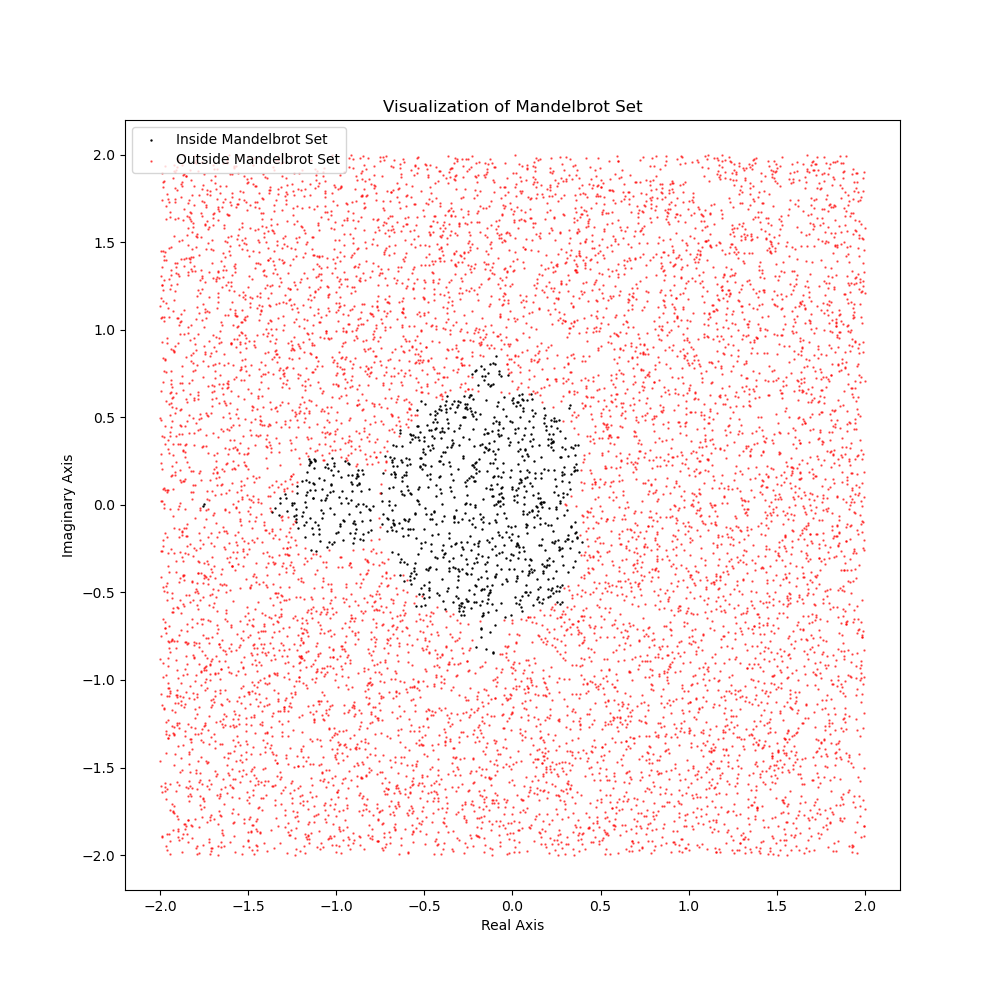
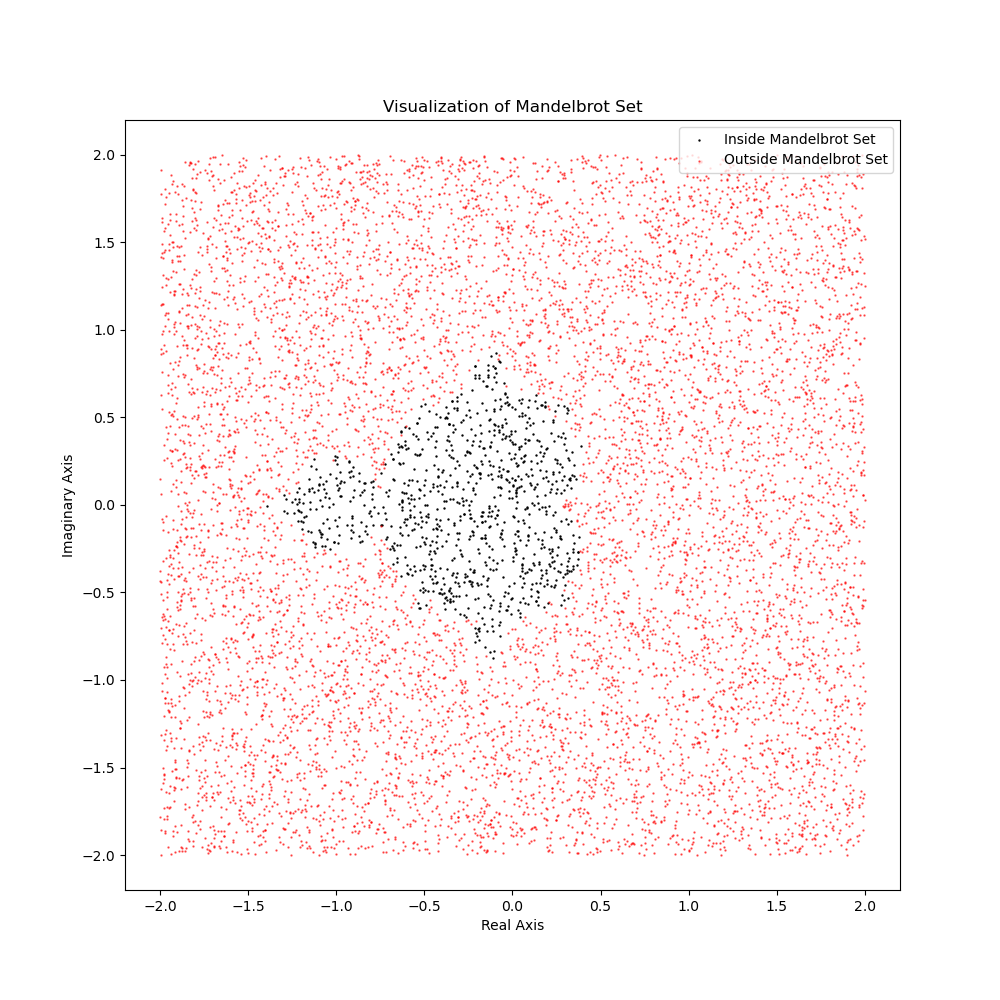
Add ortho_sampling method, readme and some compilation

Changed region(s): [[0.155, 0.124, 0.899, 0.868]]

diff --git a/src/mandelbrot_analysis.py b/src/mandelbrot_analysis.py
@@ -1,13 +1,52 @@
+import os
+import sys
+import ctypes
+
 import numpy as np
 import matplotlib.pyplot as plt
 from scipy.stats import qmc
-import os
+
 #import cupy as cp  # For GPU acceleration
 
 class MandelbrotAnalysis:
     def __init__(self, real_range, imag_range):
         self.real_range = real_range
         self.imag_range = imag_range
+        self.lib = None
+
+    def _load_library(self):
+        # combine the path of the shared library
+        lib_path = os.path.join(os.path.dirname(__file__))
+        lib_path = os.path.join(lib_path, "..", "ortho-pack", "lib")
+        
+        if sys.platform.startswith("win"):
+            print("Windows platform detected.")
+            lib_file = "ortho_sampling_generate.dll"
+        elif sys.platform.startswith("linux"):
+            print("Linux platform detected.")
+            lib_file = "libortho_sampling_generate.so"
+        elif sys.platform.startswith("darwin"):
+            print("MacOS platform detected, wait, what? I have no MacOS.")
+            lib_file = "libortho_sampling_generate.dylib" # not implemented, I have no MacOS
+        else:
+            raise OSError("Unsupported operating system.")
+
+        lib_full_path = os.path.join(lib_path, lib_file)
+
+        # load the shared library
+        try:
+            self.lib = ctypes.CDLL(lib_full_path)
+        except OSError as e:
+            raise RuntimeError(f"Unable to load the shared library: {e}")
+
+        # define the function signature
+        self.lib.ortho_sampling_generate.argtypes = [
+            ctypes.c_int,  # major
+            ctypes.c_int,  # runs
+            np.ctypeslib.ndpointer(dtype=np.float64, ndim=1, flags='C_CONTIGUOUS'),  # points_real
+            np.ctypeslib.ndpointer(dtype=np.float64, ndim=1, flags='C_CONTIGUOUS')   # points_imag
+        ]
+        self.lib.ortho_sampling_generate.restype = None
 
     def get_sample_name(self, sample_type):
         sample_name_list = {
@@ -52,8 +91,22 @@ class MandelbrotAnalysis:
         samples = np.column_stack((x_samples, y_samples))
         return samples
 
-    def orthogonal_sampling(self, num_samples):
-        return
+    def orthogonal_sampling(self, num_samples_root):
+        major = num_samples_root  # major is the number of samples in each dimension
+        num_samples = major * major  # total number of samples
+        runs = 1 # number of runs
+
+        # store the generated points in these arrays
+        points_real = np.zeros(num_samples, dtype=np.float64)
+        points_imag = np.zeros(num_samples, dtype=np.float64)
+
+        # call the shared library function to generate the points
+        self.lib.ortho_sampling_generate(major, runs, points_real, points_imag)
+
+        # combine the real and imaginary parts to get the samples
+        samples = np.column_stack((points_real, points_imag))
+
+        return samples
 
     # Mandelbrot convergence check for real + imag*(1j) with max_iter
     def mandel_convergence_check(self, real, imag, max_iter):

diff --git a/src/main.py b/src/main.py
@@ -8,11 +8,12 @@ mandelbrotAnalysisPlatform = mandelbrot_analysis.MandelbrotAnalysis(real_range=(
 
 # -----------------------------------------------------------color_mandelbrot-----------------------------------------------------------
 # pick the best combination of num_samples and max_iter
-num_samples_list = [1000, 5000, 10000]
+num_samples_list              = [2500, 6400, 10000] # 50, 80, 100
+num_samples_list_perfect_root = [50, 80, 100] # perfect square root for orthogonal sampling, sample size is square of this number!!!
 max_iter_list = [100, 200]
 mset_list = list(itertools.product(num_samples_list, max_iter_list))
 
-def run_mset_colors(num_samples, max_iter):
+def run_mset_colors_parallel(num_samples, max_iter):
     # 0 is for pure random sampling
     # TODO: Implement pure random sampling
 
@@ -20,10 +21,18 @@ def run_mset_colors(num_samples, max_iter):
     sample = mandelbrotAnalysisPlatform.latin_hypercube_sampling(num_samples)
     mandelbrotAnalysisPlatform.color_mandelbrot(sample, max_iter, 1)
 
-    # 2 is for orthogonal sampling
-    # TODO: Implement orthogonal sampling
+def run_mset_colors_ortho_seq(num_samples_list_perfect_root, max_iter_list):
+    # 2 corresponds to orthogonal sampling
+    # joblib is not able to seriliaze the object which has ctypes pointer, so we have to run this sequentially
+    for i, num_samples in enumerate(num_samples_list_perfect_root):
+        for j, max_iter in enumerate(max_iter_list):
+            sample = mandelbrotAnalysisPlatform.orthogonal_sampling(num_samples)
+            mandelbrotAnalysisPlatform.color_mandelbrot(sample, max_iter, 2)
 
 num_workers = mp.cpu_count()
-results = Parallel(n_jobs=num_workers)(delayed(run_mset_colors)(num_samples, max_iter) for num_samples, max_iter in mset_list)
+results = Parallel(n_jobs=num_workers)(delayed(run_mset_colors_parallel)(num_samples, max_iter) for num_samples, max_iter in mset_list)
+
+mandelbrotAnalysisPlatform._load_library()
+run_mset_colors_ortho_seq(num_samples_list_perfect_root, max_iter_list)
 
 # -----------------------------------------------------------inverstigate convergence-----------------------------------------------------------

diff --git a/ortho-pack/ortho_sampling_generate.c b/ortho-pack/ortho_sampling_generate.c
@@ -1,0 +1,69 @@
+#include <stdio.h>
+#include <stdlib.h>
+#include <math.h>
+#ifdef _WIN32
+    #include <windows.h>
+#else
+    #include <unistd.h>
+#endif
+#include "mt19937.h"
+#include "rand_support.h"
+#include "ortho_sampling_generate.h"
+
+#define SAMPLES(major) ((major) * (major))
+
+void ortho_sampling_generate(int major, int runs, double *points_real, double *points_imag)
+{
+    int i, j, k, m;
+    long double scale = 4.0 / ((long double) SAMPLES(major));
+    double x, y;
+
+    long **xlist = malloc(major * sizeof(long *));
+    long **ylist = malloc(major * sizeof(long *));
+    for (i = 0; i < major; i++) {
+        xlist[i] = malloc(major * sizeof(long));
+        ylist[i] = malloc(major * sizeof(long));
+    }
+
+    init_genrand(3737);
+    m = 0;
+
+    // init xlist and ylist
+    for (i = 0; i < major; i++) {
+        for (j = 0; j < major; j++) {
+            xlist[i][j] = ylist[i][j] = m++;
+        }
+    }
+
+    int point_index = 0;
+
+    // repeat RUNS times
+    for (k = 0; k < runs; k++) {
+        for (i = 0; i < major; i++) {
+            // permute xlist[i] and ylist[i]
+            permute(xlist[i], major);
+            permute(ylist[i], major);
+        }
+        for (i = 0; i < major; i++) {  // sub-square column
+            for (j = 0; j < major; j++) {  // sub-square row
+                // generate x coordinate
+                x = -2.0 + scale * (xlist[i][j] + (long double) genrand_real2());
+                // generate y coordinate
+                y = -2.0 + scale * (ylist[j][i] + (long double) genrand_real2());
+
+                // store the real and imaginary parts of the point
+                points_real[point_index] = x;
+                points_imag[point_index] = y;
+                point_index++;
+            }
+        }
+    }
+
+    // clean up
+    for (i = 0; i < major; i++) {
+        free(xlist[i]);
+        free(ylist[i]);
+    }
+    free(xlist);
+    free(ylist);
+}

diff --git a/ortho-pack/ortho-sampling.c b/ortho-pack/ortho-sampling.c
@@ -1,12 +1,17 @@
 #include <stdio.h>
 #include <stdlib.h>
 #include <math.h>
-#include <unistd.h>
+#ifdef _WIN32
+    #include <windows.h>
+#else
+    #include <unistd.h>
+#endif
 #include "mt19937.h"
 #include "rand_support.h"
 
 #define MAJOR	   9999
 #define SAMPLES    (MAJOR * MAJOR)
+#define RUNS       2
 
 /* We will have a total of SAMPLES samples, one in each of the MAJOR * MAJOR cells.
    Within each MAJOR row or column, we will have MAJOR minor rows/columns, such that

diff --git a/ortho-pack/ortho_sampling_generate.h b/ortho-pack/ortho_sampling_generate.h
@@ -1,0 +1,12 @@
+#ifndef ORTHO_SAMPLING_H
+#define ORTHO_SAMPLING_H
+
+#ifdef _WIN32
+    #define EXPORT __declspec(dllexport)
+#else
+    #define EXPORT
+#endif
+
+EXPORT void ortho_sampling_generate(int major, int runs, double *points_real, double *points_imag);
+
+#endif // ORTHO_SAMPLING_H

diff --git a/README.md b/README.md
@@ -1,0 +1,113 @@
+# Mandelbrot Set Sampling Project
+
+## Overview
+This project provides tools to generate sample points for the Mandelbrot set using different sampling techniques, including pure random sampling, Latin Hypercube Sampling (LHS), and orthogonal sampling. It uses a C library to perform efficient orthogonal sampling and provides Python bindings to utilize the generated points for further visualization and analysis.
+
+## Project Structure
+```
+project_root/
+├── images/                                    # visulization results
+├── ortho-pack/
+│   ├── lib/
+│   │   ├── ortho_sampling_generate.dll        # Compiled library for Windows
+│   │   ├── libortho_sampling_generate.so      # Compiled library for Linux
+│   │   └── libortho_sampling_generate.dylib   # Compiled library for macOS, not implemented yet
+│   ├── mt19937ar.c                            # MT19937 random number generator source
+│   ├── ortho_sampling_generate.c              # Sampling generation source
+│   ├── rand_support.c                         # Support functions for random number generation
+│   └── *.h                                    # Header files for the C/C++ sources
+├── src/
+│   ├── main.py                                # Main Python script for executing the sampling
+│   └── mandelbrot_analysis.py                 # Class implementation for Mandelbrot analysis
+├── todo.md                                    
+├── README.md
+├── Assignment 1 - MANDELBROT.pdf              # Assignment descripition
+└── CMakeLists.txt                             # CMake build configuration file
+```
+
+## About the Orthogonal Sampling Library
+The orthogonal sampling library has already been generated and placed in the appropriate directory `ortho-pack/lib/`, so typically **you don't need to recompile it yourself**. However, if you wish to compile it or encounter issues due to platform-specific differences, the following guide will help you generate the dynamic/shared library (.dll, .so, or .dylib) based on your operating system.
+To compile the library, CMake is used for cross-platform compatibility. This guide explains how to generate the dynamic/shared library (`.dll`, `.so`, or `.dylib`) based on your operating system.
+
+### Compilation Steps
+1. **Navigate to the project root directory**:
+   ```sh
+   cd path/to/project_root
+   ```
+
+2. **Run CMake to generate the build system**:
+   ```sh
+   cmake -B build -S .
+   ```
+   - The `-B build` argument specifies that the build output should be placed in a folder called `build`.
+   - The `-S .` argument specifies that the source is the current directory.
+
+3. **Build the library**:
+   ```sh
+   cmake --build build
+   ```
+   This will generate the appropriate shared library in the `ortho-pack/lib` folder depending on your system:
+   - On Windows: `ortho_sampling_generate.dll`
+   - On Linux: `libortho_sampling_generate.so`
+   - On macOS: `libortho_sampling_generate.dylib`
+
+4. **Set the Output Directory**
+   In the `CMakeLists.txt` file, the output directory for the compiled libraries is set as follows:
+   ```cmake
+   set_target_properties(ortho_sampling_generate PROPERTIES
+       LIBRARY_OUTPUT_DIRECTORY ${CMAKE_SOURCE_DIR}/ortho-pack/lib
+   )
+   ```
+
+## Project Flow
+### Python Integration
+- The main Python script (`src/main.py`) uses the `MandelbrotAnalysis` class to generate points on the complex plane using different sampling methods.
+- The generated shared library (`.dll`, `.so`, or `.dylib`) is dynamically loaded using `ctypes` to call the underlying C functions for point generation.
+- Python code supports multiple platforms and dynamically chooses which shared library to load based on the system type (Windows, Linux, or macOS).
+
+### Workflow
+1. **Sampling Generation**:
+   - Sampling methods (`pure_random_sampling`, `latin_hypercube_sampling`, `orthogonal_sampling`) generate complex plane points.
+   - Sampling is executed through functions defined in the C shared library for efficiency.
+
+2. **Parallel and Sequential Processing**:
+   - **Parallel Processing**: `joblib` is used for parallel Mandelbrot analysis using methods that can be parallelized without serializing pointers (like pure Python-based sampling).
+   - **Sequential Processing**: Methods involving `ctypes` are processed sequentially to avoid serialization issues with pointers.
+
+3. **Results**:
+   - The generated points are used to evaluate whether they belong to the Mandelbrot set, and the results are visualized or further analyzed.
+
+## Usage
+1. **Install Dependencies**:
+   - Python 3.x
+   - Required Python packages: `numpy`, `joblib`
+   ```sh
+   pip install numpy joblib
+   ```
+
+2. **Run the Main Script**:
+   ```sh
+   python src/main.py
+   ```
+
+   - This script will generate Mandelbrot set points using different sampling methods and output the analysis.
+
+## Common Issues
+1. **Library Not Found**:
+   - Ensure the compiled library (`.dll`, `.so`, `.dylib`) is located in the `ortho-pack/lib` directory.
+   - Verify that the correct library for your system is present.
+
+2. **Serialization Errors with `joblib`**:
+   - When using `joblib` for parallel execution, make sure not to pass `ctypes` objects, as they cannot be serialized. Load the dynamic library inside the worker function.
+
+## Future Improvements
+- Extend support for more sampling methods.
+- Optimize the C library for better performance in large-scale sampling.
+- Add more visualizations and analysis for the generated Mandelbrot set points.
+
+## Contributing
+Feel free to submit pull requests or open issues if you encounter any problems or have suggestions for improvement.
+
+## License
+This project is open-sourced under the MIT License.
+
